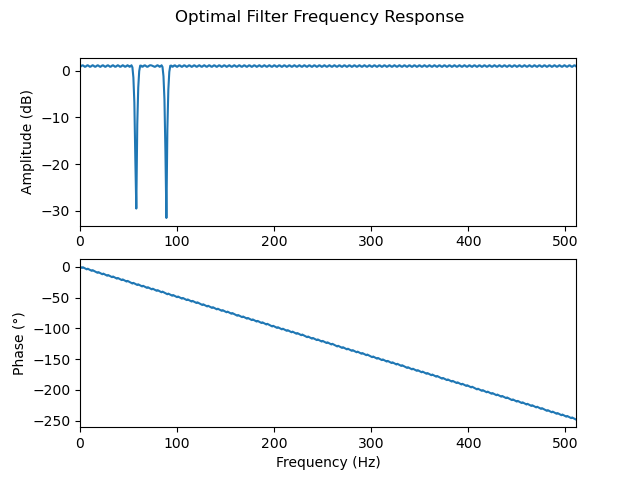
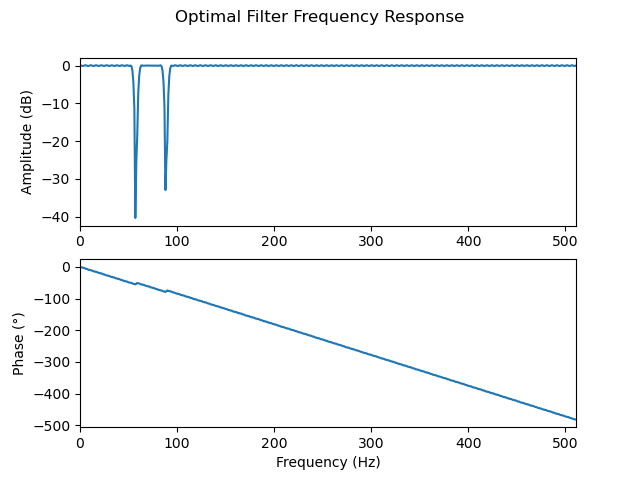
cascaded the filters, improved them somewhat, and added the noise variances.

diff --git a/main.py b/main.py
@@ -154,53 +154,73 @@ def calculateNoiseVariance(data, filtered_data):
     return noise_data_variance
 
 
-
+#
+# FIR Filter functions
+#
 def createWindowFilter(notches, sample_rate, notch_width):
     """Compute and return the bandstop  window filter array for the specified notches. Adjusting the window type and band width changes attenuation."""
 
     NUM_TAPS = 399 #Max number of taps allowed
+    window = ('kaiser', 2)
     f1, f2 = notches
-    width = notch_width / 1.56  #One sided 3dB bandwidth, in Hz
+    width = notch_width / 1.2 #One sided 3dB bandwidth, in Hz
     ny = sample_rate / 2.0
 
-    cutoff = [(f1 - width)/ny, (f1 + width)/ny, (f2 - width)/ny, (f2 + width)/ny]
-    filter_array = firwin(numtaps=NUM_TAPS, cutoff=cutoff, window=('kaiser', 4))
-
-    #Following lines are for interest, hp and lp, to erradicate excess noise in signal...
-    # hp = firwin(numtaps=NUM_TAPS, cutoff=(10/ny), pass_zero=False)
-    # lp = firwin(numtaps=NUM_TAPS, cutoff=(100/ny))
-    # hectic = convolve(hp, filter_array)
-    # filter_array = convolve(hectic, lp)
+    cutoff_1 = [(f1 - width), (f1 + width)]
+    cutoff_2 = [(f2 - width), (f2 + width)]
+    filter_1 = firwin(numtaps=NUM_TAPS, cutoff=cutoff_1, window=window, fs=sample_rate)
+    filter_2 = firwin(numtaps=NUM_TAPS, cutoff=cutoff_2, window=window, fs=sample_rate)
     
-    return filter_array
+    return filter_1, filter_2
 
 
 def createOptimalFilter(notches, sample_rate, notch_width, gains):
-    """Compute and return the bandstop  optimal filter array for the specified notches. Adjusting the window type and band width changes attenuation."""
+    """Compute and return the bandstop  optimal filter arrays for the specified notches. Adjusting the window type and band width changes attenuation."""
 
     NUM_TAPS = 399 #Max number of taps allowed
     f1, f2 = notches
-    width = notch_width / 1.3 #One sided 3dB bandwidth, in Hz
-    gain = np.power(10, np.array(gains)/20)
-    bands= [0, (f1 - width), f1, f1, (f1 + width), (f2 - width), f2, f2, (f2 + width), sample_rate/2]
-    filter_array = remez(numtaps=NUM_TAPS, bands=bands, desired=gain, fs=sample_rate)
+    width = notch_width / 1.0 #One sided 3dB bandwidth, in Hz
+    #gain = np.power(10, np.array(gains)/20)
+    weight = [1, 0.1, 1]
     
-    return filter_array
+
+    band_1= [0,  f1 - width, f1 - 1, f1 + 1, f1 + width, sample_rate / 2] #Pad the stop band as the method doesnt convege well otherwise
+    band_2= [0, f2 - width, f2 - 1, f2 + 1, f2 + width, sample_rate / 2]
+
+    filter_1 = remez(numtaps=NUM_TAPS, bands=band_1, desired=gains, fs=sample_rate, weight=weight)
+    filter_2 = remez(numtaps=NUM_TAPS, bands=band_2, desired=gains, fs=sample_rate, weight=weight)
+    
+    return filter_1, filter_2
 
 
 def createFreqSamplingFilter(notches, sample_rate, notch_width, gains):
-    """Compute and return the bandstop frequency sampling filter array for the specified notches. Adjusting the window type and band width changes attenuation."""
+    """Compute and return the bandstop frequency sampling filter arrays for the specified notches. Adjusting the window type and band width changes attenuation."""
 
     NUM_TAPS = 399 #Max number of taps allowed
     f1, f2 = notches
+    window_type = ('kaiser', 0.1)
     width = notch_width / 0.5 #One sided 3dB bandwidth, in Hz
-    gain = np.power(10, np.array(gains)/20)
-    freq = [0, (f1 - width), f1, (f1 + width), (f2 - width), f2, (f2 + width), sample_rate/2]
- 
-    filter_array = firwin2(numtaps=NUM_TAPS, freq=freq, gain=gain, fs=sample_rate, window=('kaiser', 0.1))
-    
-    return filter_array
+    #gain = np.power(10, np.array(gains)/20.0)
 
+    freq_1 = [0, f1 - width, f1, f1 + width, sample_rate / 2]
+    freq_2 = [0, f2 - width, f2, f2 + width, sample_rate / 2]
+
+    filter_1 = firwin2(numtaps=NUM_TAPS, freq=freq_1, gain=gains, fs=sample_rate, window=window_type)
+    filter_2 = firwin2(numtaps=NUM_TAPS, freq=freq_2, gain=gains, fs=sample_rate, window=window_type)
+    
+    return filter_1, filter_2
+
+def applyFIRFilter(filter_1, filter_2, samples):
+    """Apply two FIR filters in a cascaded fashion, and return each stage."""
+    half_freq_filtered = lfilter(filter_1, 1, samples)
+    full_freq_filtered = lfilter(filter_2, 1, half_freq_filtered)
+    return half_freq_filtered, full_freq_filtered
+
+
+
+#
+# File functions
+#
 def createClean(filename, directory=False):
     """Create a file/folder at the target location and returns the path to this if it is a folder or a the file ready
     for reading and writing if it is a file.
@@ -269,8 +289,8 @@ def main():
     sample_rate = 1024  # Sample rate of data (Hz)
     cutoff = [57.755, 88.824] # Frequencies to attenuate (Hz), which were calculated based on previous graphical analysis
     notch_width = 5 # 3 dB bandwidth of the notch filters (Hz)
-    optimal_gains = [1, -80, 1, -80, 1]
-    freq_gains = [1, 1, -80, 1, 1, -80, 1, 1]
+    optimal_gains = [1, 0, 1]
+    freq_gains = [1, 1, 0, 1, 1]
 
 
     # Gather data from input files
@@ -286,21 +306,21 @@ def main():
     notched_numerator, notched_denominator = combineFilters(notch_num_1, notch_denom_1, notch_num_2, notch_denom_2)  # Combine the two IIR notch filters
 
     # Create and apply FIR filters to data
-    window_filter = createWindowFilter(cutoff, sample_rate, notch_width) # Calculate window filter coefficents
-    windowed_samples = convolve(samples, window_filter) # Apply window filter to data
-    win_time = getTimeData(sample_rate, len(windowed_samples)) # Create a time array based on window filtered data
-    win_frequency, win_freq_data = calcFreqSpectrum(windowed_samples, sample_rate) # Calculate frequency of the window IIR filtered ECG data
+    window_filter_1, window_filter_2 = createWindowFilter(cutoff, sample_rate, notch_width) # Calculate window filter coefficents
+    half_windowed_samples, full_windowed_samples = applyFIRFilter(window_filter_1, window_filter_2, samples) # Apply window filter to data
+    win_time = getTimeData(sample_rate, len(full_windowed_samples)) # Create a time array based on window filtered data
+    win_frequency, win_freq_data = calcFreqSpectrum(full_windowed_samples, sample_rate) # Calculate frequency of the window IIR filtered ECG data
 
-    optimal_filter = createOptimalFilter(cutoff, sample_rate, notch_width, optimal_gains)
-    optimal_samples = convolve(samples, optimal_filter)
-    opt_time = getTimeData(sample_rate, len(optimal_samples)) # Create a time array based on optimal filtered data
-    opt_frequency, opt_freq_data = calcFreqSpectrum(optimal_samples, sample_rate) # Calculate frequency of the window IIR filtered ECG data
+    optimal_filter_1, optimal_filter_2 = createOptimalFilter(cutoff, sample_rate, notch_width, optimal_gains)
+    half_optimal_samples, full_optimal_samples = applyFIRFilter(optimal_filter_1, optimal_filter_2, samples)
+    opt_time = getTimeData(sample_rate, len(full_optimal_samples)) # Create a time array based on optimal filtered data
+    opt_frequency, opt_freq_data = calcFreqSpectrum(full_optimal_samples, sample_rate) # Calculate frequency of the window IIR filtered ECG data
     
     
-    freq_sampling_filter = createFreqSamplingFilter(cutoff, sample_rate, notch_width, freq_gains)
-    freq_sampling_samples = convolve(samples, freq_sampling_filter)
-    freq_sampling_time = getTimeData(sample_rate, len(freq_sampling_samples)) # Create a time array based on optimal filtered data
-    freq_s_frequency, freq_s_freq_data = calcFreqSpectrum(freq_sampling_samples, sample_rate) # Calculate frequency of the window IIR filtered ECG data
+    freq_sampling_filter_1, freq_sampling_filter_2  = createFreqSamplingFilter(cutoff, sample_rate, notch_width, freq_gains)
+    half_freq_samples, full_freq_samples = applyFIRFilter(freq_sampling_filter_1, freq_sampling_filter_2, samples)
+    freq_sampling_time = getTimeData(sample_rate, len(full_freq_samples)) # Create a time array based on optimal filtered data
+    freq_s_frequency, freq_s_freq_data = calcFreqSpectrum(full_freq_samples, sample_rate) # Calculate frequency of the window IIR filtered ECG data
     
 
 
@@ -314,19 +334,19 @@ def main():
     IIRNotchFilterResponse = plotIIRNotchFilterResponse(notched_numerator, notched_denominator, sample_rate) # Plot the frequency response of the notch filter
 
     # # Plot window filtered data
-    WindowedECG = plotWindowedECG(windowed_samples, win_time) # Plot a time domain graph of the window filtered ECG data
+    WindowedECG = plotWindowedECG(full_windowed_samples, win_time) # Plot a time domain graph of the window filtered ECG data
     WindowedECGSpectrum = plotWindowedECGSpectrum(win_frequency, win_freq_data) # Plot the frequency spectrum of the window filtered ECG data
-    WindowFilterResponse = plotWindowFilterResponse(window_filter, sample_rate) # Plot the frequency response of the window filter
+    WindowFilterResponse = plotWindowFilterResponse(convolve(window_filter_1, window_filter_2), sample_rate) # Plot the frequency response of the window filter
 
     #Plot optimal filtered data
-    OptimalECG = plotOptimalECG(optimal_samples, opt_time) # Plot a time domain graph of the window filtered ECG data
+    OptimalECG = plotOptimalECG(full_optimal_samples, opt_time) # Plot a time domain graph of the window filtered ECG data
     OptimalECGSpectrum = plotOptimalECGSpectrum(opt_frequency, opt_freq_data) # Plot the frequency spectrum of the window filtered ECG data
-    OptimalFilterResponse = plotOptimalFilterResponse(optimal_filter, sample_rate) # Plot the frequency response of the window filter
+    OptimalFilterResponse = plotOptimalFilterResponse(convolve(optimal_filter_1, optimal_filter_2), sample_rate) # Plot the frequency response of the window filter
 
     #Plot Frequency Sampling filtered data
-    FrequencySamplingECG = plotFrequencySampledECG(optimal_samples, opt_time) # Plot a time domain graph of the window filtered ECG data
+    FrequencySamplingECG = plotFrequencySampledECG(full_freq_samples, freq_sampling_time) # Plot a time domain graph of the window filtered ECG data
     FrequencySamplingECGSpectrum = plotFrequencySampledECGSpectrum(freq_s_frequency, freq_s_freq_data) # Plot the frequency spectrum of the window filtered ECG data
-    FrequencySamplingFilterResponse = plotFrequencySampledFilterResponse(freq_sampling_filter, sample_rate) # Plot the frequency response of the window filter
+    FrequencySamplingFilterResponse = plotFrequencySampledFilterResponse(convolve(freq_sampling_filter_1, freq_sampling_filter_2), sample_rate) # Plot the frequency response of the window filter
 
     # Save figures
     figures = [ECG, ECGSpectrum, IIRNotchECG, IIRNotchECGSpectrum, IIRNotchFilterResponse, WindowedECG, WindowedECGSpectrum,
@@ -339,10 +359,35 @@ def main():
     first_notched_noise_variance = calculateNoiseVariance(samples, half_notched_samples)  # Calculate the variance of the noise removed by the first IIR notch filter
     second_notched_noise_variance = calculateNoiseVariance(half_notched_samples, notched_samples)  # Calculate the variance of the noise removed by the second IIR notch filter
 
+    window_noise_variance = calculateNoiseVariance(samples, full_windowed_samples)  # Calculate the variance of the noise removed by the 
+    first_window_noise_variance = calculateNoiseVariance(samples, half_windowed_samples)  # Calculate the variance of the noise removed by the 
+    second_window_noise_variance = calculateNoiseVariance(half_windowed_samples, full_windowed_samples)  # Calculate the variance of the noise removed by the 
+
+    optimal_noise_variance = calculateNoiseVariance(samples, full_optimal_samples)  # Calculate the variance of the noise removed by the 
+    first_optimal_noise_variance = calculateNoiseVariance(samples, half_optimal_samples)  # Calculate the variance of the noise removed by the 
+    second_optimal_noise_variance = calculateNoiseVariance(half_optimal_samples, full_optimal_samples)  # Calculate the variance of the noise removed by the 
+
+    freq_sampling_noise_variance = calculateNoiseVariance(samples, full_freq_samples)  # Calculate the variance of the noise removed by the 
+    first_freq_sampling_noise_variance = calculateNoiseVariance(samples, half_freq_samples)  # Calculate the variance of the noise removed by the 
+    second_freq_sampling_noise_variance = calculateNoiseVariance(half_freq_samples, full_freq_samples)  # Calculate the variance of the noise removed by the
+
+
+
+
     # Save noise power to a .txt file
     noise_power_data = {'IIR notch filters': notched_noise_variance,
                         'first IIR notch filter': first_notched_noise_variance,
-                        'second IIR notch filter': second_notched_noise_variance}  # Create a dictionary of the filter name and its noise power
+                        'second IIR notch filter': second_notched_noise_variance,
+                        'FIR Window filters': window_noise_variance,
+                        'first window filter': first_window_noise_variance,
+                        'second window filter': second_window_noise_variance,
+                        'FIR Optimal filters': optimal_noise_variance,
+                        'first optimal filter': first_optimal_noise_variance,
+                        'second optimal filter': second_optimal_noise_variance,
+                        'FIR Frequency Sampling filters': freq_sampling_noise_variance,
+                        'first frequnecy sampling filter': first_freq_sampling_noise_variance,
+                        'second frequency sampling filter': second_freq_sampling_noise_variance
+                        }  # Create a dictionary of the filter name and its noise power
     saveNoisePowerData(noise_power_data, noise_power_output_filename)  # Save the data about each filter to a file
     # plt.show()
 
